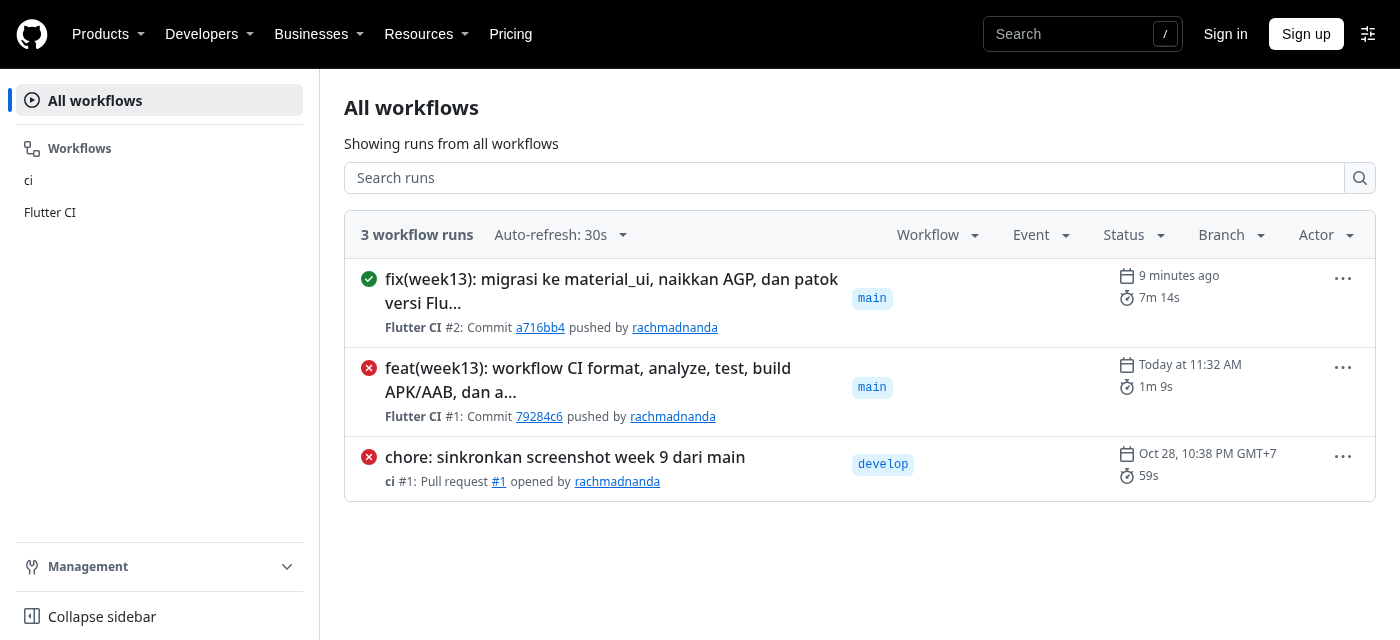
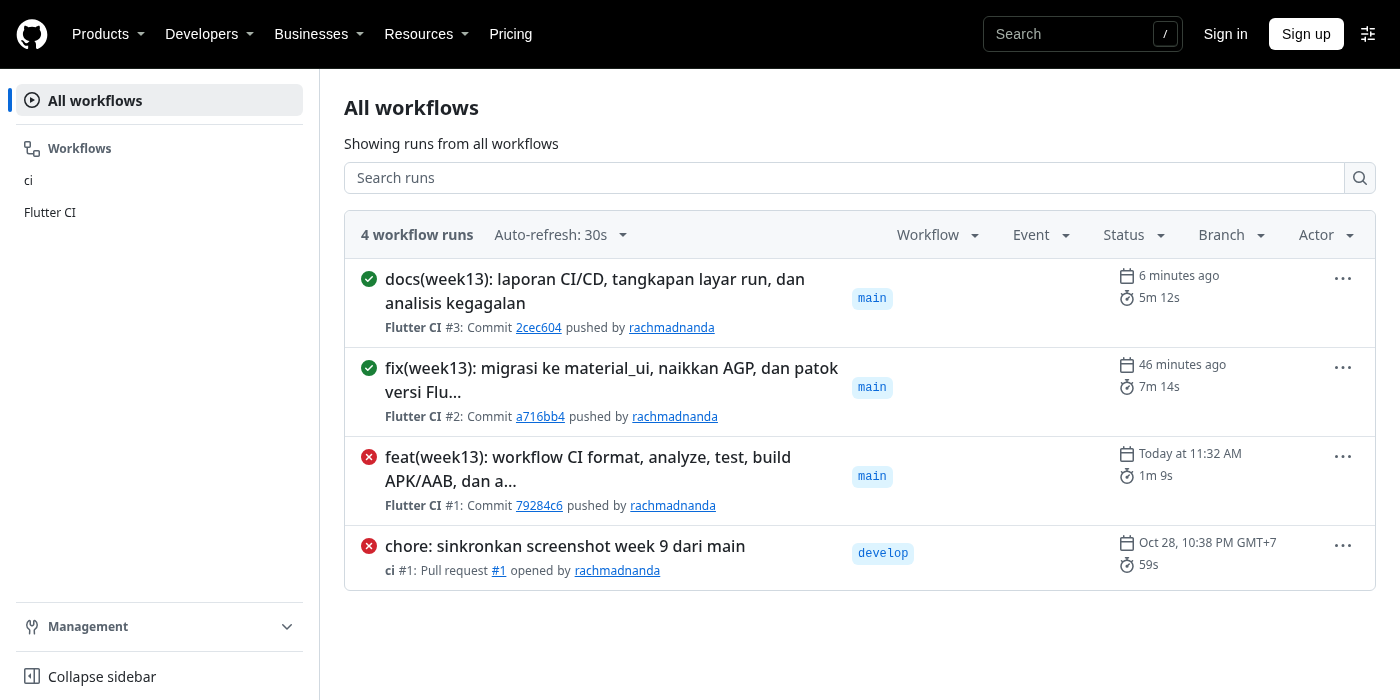
docs(week13): tambahkan run #3 sebagai bukti pipeline pada commit dokumentasi

diff --git a/_13_week_13_ci_cd_automation/README.md b/_13_week_13_ci_cd_automation/README.md
@@ -6,10 +6,12 @@ menjalankan pemeriksaan dan build secara otomatis** setiap ada perubahan, lalu
 menyimpan APK/AAB sebagai artefak yang bisa ditinjau.
 
 > **Status verifikasi (25 November 2026):**
-> workflow `Flutter CI` **hijau** pada commit `a716bb4` — run
-> [#2](https://github.com/rachmadnanda/244107020095-mobile-course/actions/runs/45553405020),
-> durasi 7m 14s, artefak `android-builds` 72,6 MB.
-> Tag `v1.0.1` menunjuk commit tersebut.
+> workflow `Flutter CI` **hijau** pada commit `a716bb4` dan `2cec604` —
+> run [#2](https://github.com/rachmadnanda/244107020095-mobile-course/actions/runs/45553405020)
+> (7m 14s) dan
+> [#3](https://github.com/rachmadnanda/244107020095-mobile-course/actions/runs/45557977150)
+> (5m 12s), artefak `android-builds` 72,6 MB.
+> Tag `v1.0.1` menunjuk `a716bb4`.
 > Bukti tangkapan layar ada di [`screenshots/`](screenshots/README.md),
 > analisis lengkap di [`docs/ci-cd-report.md`](docs/ci-cd-report.md).
 
@@ -107,13 +109,18 @@ diterapkan ke repo: analyze bersih, 95/95 test lulus, APK dan AAB terbangun.
 
 ## Hasil run
 
-| | Run #1 | Run #2 |
-| --- | --- | --- |
-| Commit | `79284c6` | `a716bb4` |
-| Hasil | ❌ failure | ✅ **success** |
-| Durasi | 1m 9s | **7m 14s** |
-| Gagal di | Analisis statis | — |
-| Artefak | – | `android-builds` (72,6 MB) |
+| | Run #1 | Run #2 | Run #3 |
+| --- | --- | --- | --- |
+| Commit | `79284c6` | `a716bb4` | `2cec604` |
+| Isi commit | workflow pertama | migrasi + AGP + pin versi | dokumentasi |
+| Hasil | ❌ failure | ✅ **success** | ✅ **success** |
+| Durasi | 1m 9s | 7m 14s | 5m 12s |
+| Gagal di | Analisis statis | — | — |
+| Artefak | – | `android-builds` (72,6 MB) | `android-builds` (72,6 MB) |
+
+Run #3 penting sebagai bukti tambahan: commit yang **hanya menyentuh
+dokumentasi** tetap menjalankan seluruh pipeline dan tetap hijau, sehingga
+artefak selalu berasal dari source yang sudah diverifikasi.
 
 Run #2 — seluruh 10 step hijau:
 
@@ -136,6 +143,10 @@ retensi 7 hari.
 **Ringkasan run #2** — Success, 7m 14s, satu artefak 72,6 MB:
 
 ![Ringkasan run hijau](screenshots/gh-02-run-summary.png)
+
+**Run #3 (commit dokumentasi)** — juga hijau, 5m 12s:
+
+![Run ketiga hijau](screenshots/gh-05-run-docs.png)
 
 **Detail step run #2** — sepuluh langkah, semuanya hijau:
 

diff --git a/_13_week_13_ci_cd_automation/screenshots/README.md b/_13_week_13_ci_cd_automation/screenshots/README.md
@@ -12,10 +12,11 @@ Dua jenis bukti, keduanya diambil 25 November 2026:
 
 | Berkas | Isi |
 | --- | --- |
-| `gh-01-runs.png` | Daftar run: run #2 hijau, run #1 merah, ci #1 lama merah |
+| `gh-01-runs.png` | Daftar run: #3 dan #2 hijau, #1 merah, ci #1 lama merah |
 | `gh-02-run-summary.png` | Ringkasan run #2: status Success, 7m 14s, artefak 72,6 MB |
 | `gh-03-run-steps.png` | 10 step run #2, semuanya hijau |
 | `gh-04-first-failure.png` | Run #1: step "Analisis statis" merah, step build `skipped` |
+| `gh-05-run-docs.png` | Run #3 (commit dokumentasi): Success, 5m 12s, artefak 72,6 MB |
 | `01-cek-lokal.png` | Format, analyze, dan 95 test lokal dengan Flutter 3.50.1 |
 | `02-build-lokal.png` | Build lokal APK (52,1 MB) dan AAB (51,8 MB) dengan Flutter 3.50.1 |
 
@@ -23,10 +24,11 @@ Dua jenis bukti, keduanya diambil 25 November 2026:
 
 | Gambar | Yang terbaca |
 | --- | --- |
-| `gh-01-runs.png` | `Flutter CI #2` commit `a716bb4`, 7m 14s · `Flutter CI #1` commit `79284c6`, 1m 9s |
+| `gh-01-runs.png` | `Flutter CI #3` commit `2cec604`, 5m 12s · `#2` commit `a716bb4`, 7m 14s · `#1` commit `79284c6`, 1m 9s |
 | `gh-02-run-summary.png` | Status **Success**, total 7m 14s, Artifacts **1**, `android-builds` **72.6 MB**, digest `sha256:f0329404…` |
 | `gh-03-run-steps.png` | Set up job → Checkout → Siapkan Flutter → Ambil dependensi → Periksa format → Analisis statis → Jalankan test → Build APK → Build App Bundle → Unggah artefak → Complete job, semua ✅ |
 | `gh-04-first-failure.png` | Periksa format ✅ lalu **Analisis statis ❌**, Jalankan test sampai Unggah artefak `skipped` |
+| `gh-05-run-docs.png` | Status **Success**, total 5m 12s, Artifacts **1**, `android-builds` **72.6 MB**, digest `sha256:39e6c8ad…` |
 | `01-cek-lokal.png` | `Formatted 52 files (0 changed)`, `No issues found!`, `00:17 +95: All tests passed!` |
 | `02-build-lokal.png` | `✓ Built ... app-release.apk (52.1MB)`, `✓ Built ... app-release.aab (51.8MB)`, `Flutter 3.50.1 • channel stable` |
 

diff --git a/_13_week_13_ci_cd_automation/docs/ci-cd-report.md b/_13_week_13_ci_cd_automation/docs/ci-cd-report.md
@@ -127,15 +127,19 @@ di perangkat.
 
 ## 4. Hasil run
 
-| | Run #1 | Run #2 |
-| --- | --- | --- |
-| URL | `/actions/runs/45547458858` | `/actions/runs/45553405020` |
-| Commit | `79284c6` | `a716bb4` |
-| Event | push ke `main` | push ke `main` |
-| Hasil | ❌ failure | ✅ success |
-| Durasi | 1m 9s | 7m 14s |
-| Step gagal | Analisis statis | — |
-| Artefak | – | `android-builds` 72,6 MB |
+| | Run #1 | Run #2 | Run #3 |
+| --- | --- | --- | --- |
+| URL | `/actions/runs/45547458858` | `/actions/runs/45553405020` | `/actions/runs/45557977150` |
+| Commit | `79284c6` | `a716bb4` | `2cec604` |
+| Event | push ke `main` | push ke `main` | push ke `main` |
+| Hasil | ❌ failure | ✅ success | ✅ success |
+| Durasi | 1m 9s | 7m 14s | 5m 12s |
+| Step gagal | Analisis statis | — | — |
+| Artefak | – | `android-builds` 72,6 MB | `android-builds` 72,6 MB |
+
+Run #3 membuktikan hal yang mudah terlewat: commit yang hanya mengubah
+Markdown tetap menjalankan format, analisis, 95 test, dan build. Pipeline tidak
+membedakan "commit penting" dan "commit dokumentasi".
 
 Step pada run #2, semuanya hijau:
 
